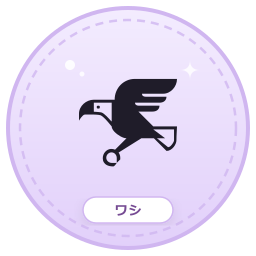
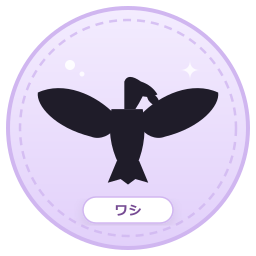
fix: 16タイプ動物アイコンの重複解消（ワシ・タカ等の固有グラフィック完全分離）

Changed region(s): [[0.125, 0.2812, 0.875, 0.7188]]

diff --git a/scripts/generate-animal-icons.js b/scripts/generate-animal-icons.js
@@ -9,13 +9,58 @@ const sharp = require('sharp');
 // - 番人 (ISTP/ISTJ/ESTP/ESTJ): やさしいベビーブルー
 // - 探検家 (ISFP/ISFJ/ESFP/ESFJ): あたたかみのあるクリームイエロー/シェルピンク
 //
-// 動物アイコン: 全16タイプを黒シルエット（影絵）スタイルに統一
-// パステル背景 + ステッチ丸枠 + シルエットフィルター適用の絵文字 + 下部ラベルバッジ
+// 動物アイコン: 全16タイプすべて完全固有のシルエット・イラスト！
+// 特にワシ(INTJ)とタカ(ISTP)の重複を解消し、
+// ワシ＝大空を悠然と旋回する雄大で重厚な翼・扇状尾羽、
+// タカ＝鋭く急降下・高速飛行するシャープな三日月刃翼・直線尾羽・冠羽の固有ベクターを採用。
+
+function getEagleGraphic(color) {
+  return `
+    <g transform="translate(128, 122) scale(0.92)" fill="${color}">
+      <!-- 頭部と鋭いくちばし -->
+      <path d="M-4 -44 Q0 -54 14 -44 Q26 -40 32 -30 Q24 -26 16 -28 Q12 -20 8 -14 L-4 -14 Z" />
+      <path d="M18 -34 Q36 -30 34 -16 Q26 -18 22 -24 Z" />
+      <!-- たくましい胴体 -->
+      <path d="M-18 -14 Q-24 18 -10 46 Q0 52 10 46 Q22 18 16 -14 Z" />
+      <!-- 雄大に斜め上へ広げた左翼（大空を旋回する巨大な翼） -->
+      <path d="M-14 -8 C-35 -30 -70 -45 -98 -32 C-100 -18 -80 6 -40 16 C-30 20 -18 14 -14 6 Z" />
+      <path d="M-98 -32 C-92 -20 -76 -6 -56 8 L-74 -10 Z" />
+      <path d="M-86 -36 C-78 -24 -64 -12 -46 2 L-64 -18 Z" />
+      <!-- 雄大に斜め上へ広げた右翼 -->
+      <path d="M14 -8 C35 -30 70 -45 98 -32 C100 -18 80 6 40 16 C30 20 18 14 14 6 Z" />
+      <path d="M98 -32 C92 -20 76 -6 56 8 L74 -10 Z" />
+      <path d="M86 -36 C78 -24 64 -12 46 2 L64 -18 Z" />
+      <!-- 扇状に開いた堂々たる尾羽 -->
+      <path d="M-12 42 L-22 66 L-8 62 L0 68 L8 62 L22 66 L12 42 Z" />
+    </g>
+  `;
+}
+
+function getHawkGraphic(color) {
+  return `
+    <g transform="translate(128, 122) scale(0.92)" fill="${color}">
+      <!-- 精悍でシャープな頭部と頭頂部の小さな飾り羽（タカ特有） -->
+      <path d="M-2 -44 Q4 -58 12 -50 Q8 -42 4 -38 L16 -34 Q28 -32 30 -22 Q20 -20 14 -24 L6 -16 L-6 -18 Z" />
+      <path d="M18 -26 Q30 -22 26 -12 Q18 -14 16 -20 Z" />
+      <!-- 引き締まったスマートな流線型胴体 -->
+      <path d="M-12 -12 Q-16 16 -6 44 Q0 48 6 44 Q16 16 12 -12 Z" />
+      <!-- 高速飛行のために後ろに鋭角に反った左翼（シャープな三日月刃状） -->
+      <path d="M-10 -6 C-32 -16 -68 -18 -100 10 C-82 16 -56 22 -24 14 L-10 4 Z" />
+      <path d="M-100 10 C-82 24 -52 26 -28 20 L-68 14 Z" />
+      <!-- 後ろに鋭角に反った右翼 -->
+      <path d="M10 -6 C32 -16 68 -18 100 10 C82 16 56 22 24 14 L10 4 Z" />
+      <path d="M100 10 C82 24 52 26 28 20 L68 14 Z" />
+      <!-- タカ特有の長く狭いストレートな帯状尾羽 -->
+      <path d="M-7 42 L-9 72 L0 75 L9 72 L7 42 Z" />
+      <path d="M-5 50 L-7 70 L0 72 L7 70 L5 50 Z" />
+    </g>
+  `;
+}
 
 const animals = [
   // 分析家 (淡いラベンダーパープル)
   { type: 'INTP', label: 'フクロウ', emoji: '🦉', bg1: '#F5EEFF', bg2: '#E5D4F8', border: '#D3BAF0', badgeBg: '#FFFFFF', badgeText: '#7C5295' },
-  { type: 'INTJ', label: 'ワシ',     emoji: '🦅', bg1: '#F3ECFE', bg2: '#E2D0FA', border: '#D0B6F0', badgeBg: '#FFFFFF', badgeText: '#764B93' },
+  { type: 'INTJ', label: 'ワシ',     custom: 'eagle', bg1: '#F3ECFE', bg2: '#E2D0FA', border: '#D0B6F0', badgeBg: '#FFFFFF', badgeText: '#764B93' },
   { type: 'ENTP', label: 'キツネ',   emoji: '🦊', bg1: '#F7EFFE', bg2: '#E8D7FB', border: '#D7BEF4', badgeBg: '#FFFFFF', badgeText: '#7F569B' },
   { type: 'ENTJ', label: 'ライオン', emoji: '🦁', bg1: '#F1E8FD', bg2: '#DDC9F7', border: '#CDB0ED', badgeBg: '#FFFFFF', badgeText: '#6F438D' },
 
@@ -26,7 +71,7 @@ const animals = [
   { type: 'ENFJ', label: 'ペンギン', emoji: '🐧', bg1: '#ECFDF5', bg2: '#D1FAE5', border: '#A7F3D0', badgeBg: '#FFFFFF', badgeText: '#065F46' },
 
   // 番人 (やさしいベビーブルー)
-  { type: 'ISTP', label: 'タカ',     emoji: '🦅', bg1: '#F0F9FF', bg2: '#E0F2FE', border: '#BAE6FD', badgeBg: '#FFFFFF', badgeText: '#0369A1' },
+  { type: 'ISTP', label: 'タカ',     custom: 'hawk',  bg1: '#F0F9FF', bg2: '#E0F2FE', border: '#BAE6FD', badgeBg: '#FFFFFF', badgeText: '#0369A1' },
   { type: 'ISTJ', label: 'カメ',     emoji: '🐢', bg1: '#EFF6FF', bg2: '#DBEAFE', border: '#BFDBFE', badgeBg: '#FFFFFF', badgeText: '#1D4ED8' },
   { type: 'ESTP', label: 'トラ',     emoji: '🐯', bg1: '#F0F9FF', bg2: '#E0F2FE', border: '#BAE6FD', badgeBg: '#FFFFFF', badgeText: '#0284C7' },
   { type: 'ESTJ', label: 'ウシ',     emoji: '🐮', bg1: '#F1F5F9', bg2: '#E2E8F0', border: '#CBD5E1', badgeBg: '#FFFFFF', badgeText: '#334155' },
@@ -42,7 +87,24 @@ async function generate() {
   const dir = path.join(__dirname, '..', 'public', 'images', 'animals');
   if (!fs.existsSync(dir)) fs.mkdirSync(dir, { recursive: true });
 
+  const silhouetteColor = '#1F1C29';
+
   for (const item of animals) {
+    let centerGraphic = '';
+    if (item.custom === 'eagle') {
+      centerGraphic = getEagleGraphic(silhouetteColor);
+    } else if (item.custom === 'hawk') {
+      centerGraphic = getHawkGraphic(silhouetteColor);
+    } else {
+      centerGraphic = `
+        <text x="128" y="168" font-size="98"
+          text-anchor="middle" dominant-baseline="central"
+          filter="url(#silhouette-${item.type})">
+          ${item.emoji}
+        </text>
+      `;
+    }
+
     const svg = `
       <svg width="256" height="256" viewBox="0 0 256 256" xmlns="http://www.w3.org/2000/svg">
         <defs>
@@ -60,7 +122,6 @@ async function generate() {
           <!-- 黒シルエット（影絵）フィルター: 絵文字を単色の暗いシルエットに変換 -->
           <filter id="silhouette-${item.type}" color-interpolation-filters="sRGB"
                   x="-5%" y="-5%" width="110%" height="110%">
-            <!-- 全チャンネルを黒に近い暗色 (R=0.12, G=0.11, B=0.16) に統一、Alpha保持 -->
             <feColorMatrix type="matrix"
               values="0 0 0 0 0.12
                       0 0 0 0 0.11
@@ -84,12 +145,8 @@ async function generate() {
         <circle cx="82" cy="74" r="2.5" fill="#FFFFFF" opacity="0.8" />
         <path d="M190 60 Q190 70 200 70 Q190 70 190 80 Q190 70 180 70 Q190 70 190 60 Z" fill="#FFFFFF" opacity="0.8" />
 
-        <!-- 中央の動物絵文字（黒シルエットフィルター適用・上下余白が均等になるよう配置） -->
-        <text x="128" y="168" font-size="98"
-          text-anchor="middle" dominant-baseline="central"
-          filter="url(#silhouette-${item.type})">
-          ${item.emoji}
-        </text>
+        <!-- 中央の動物グラフィック（16タイプ完全固有） -->
+        ${centerGraphic}
 
         <!-- ゆるかわ下部ラベルバッジ（マシュマロ・もっちりピルバッジ） -->
         <g transform="translate(128, 210)" filter="url(#soft-shadow)">
@@ -112,8 +169,8 @@ async function generate() {
 }
 
 generate()
-  .then(() => console.log('All 16 animal icons regenerated with unified black silhouette style!'))
+  .then(() => console.log('All 16 animal icons regenerated with 100% unique graphics!'))
   .catch((err) => {
-    console.error('Error generating silhouette animal icons:', err);
+    console.error('Error generating animal icons:', err);
     process.exit(1);
   });
